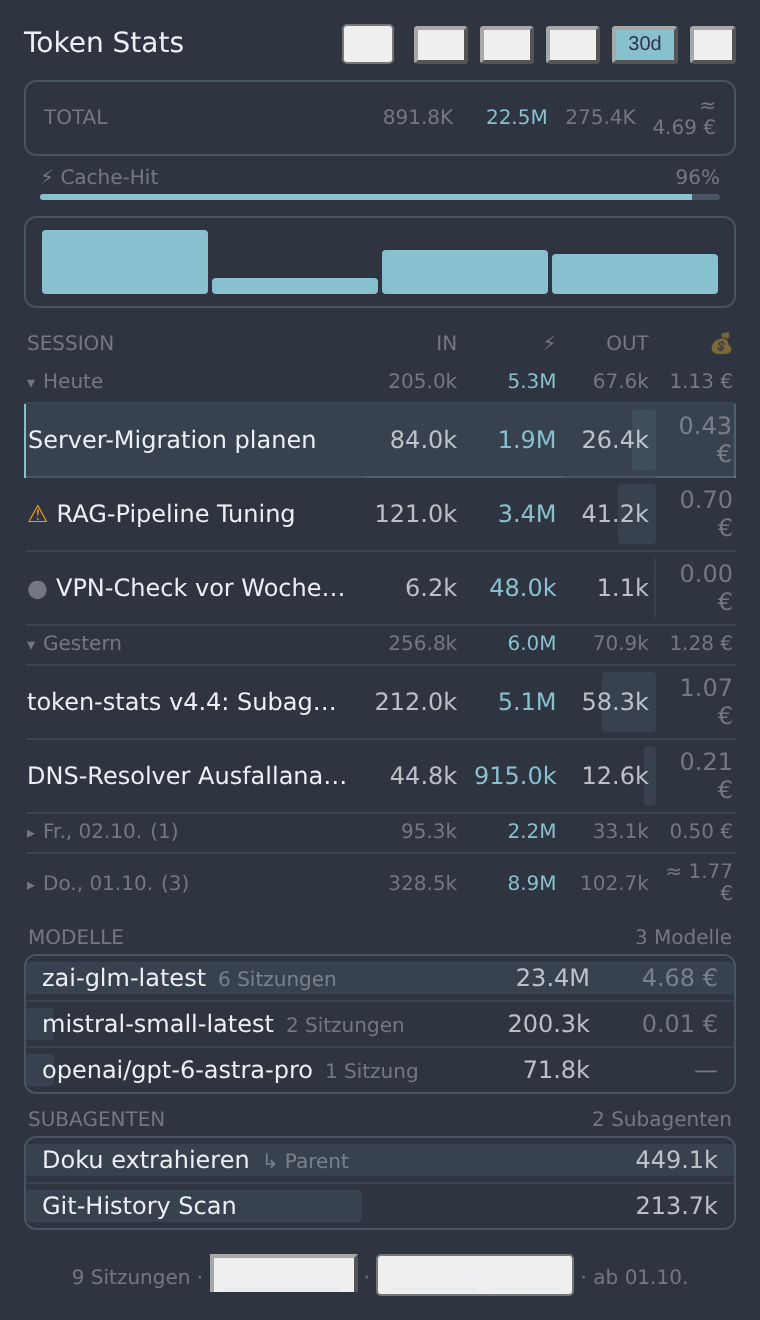
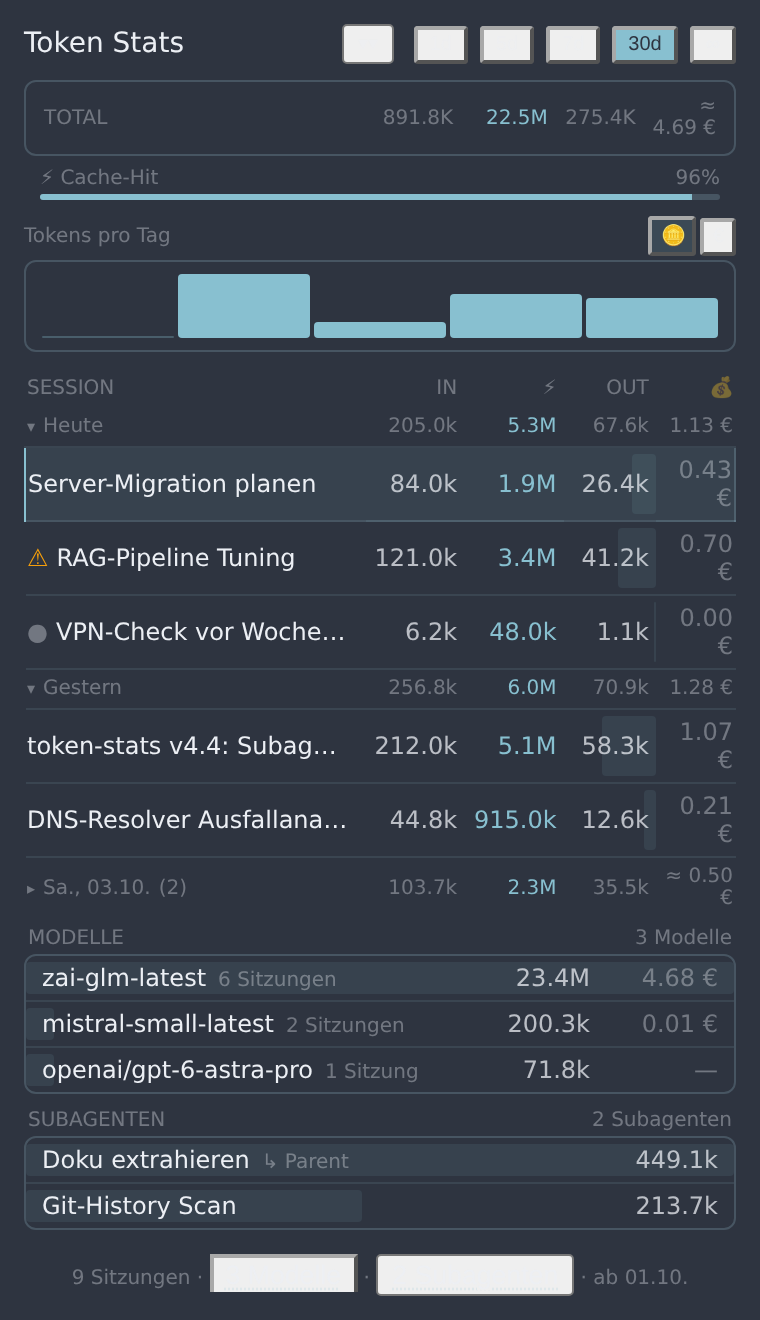
docs: reshoot pane screenshot — histogram metric toggle (v4.6.2)
Mockup updated to v4.6.x logic: histogram header row with 'Tokens pro
Tag' label + 🪙/€ toggle (selected state as inline accent tint, as in
the live plugin). Sample data unchanged, still generic titles.

Changed region(s): [[0.0303, 0.1553, 0.9684, 0.6833]]

diff --git a/docs/pane-mockup.html b/docs/pane-mockup.html
@@ -227,12 +227,14 @@ for (const r of rows) {
   else if (r.input + r.output > 0) unpricedRows++
 }
 
-// Histogram (month window → one bucket per day of month so far)
+// Histogram (month window → one bucket per day of month so far).
+// v4.6.x: buckets also carry per-day estimated cost; bar heights follow
+// the selected metric (tokens default). Tooltip shows both.
 const histBuckets = (() => {
   const start = new Date(); start.setDate(1); start.setHours(0, 0, 0, 0)
   const buckets = []
   for (let d = new Date(start); d <= new Date(); d.setDate(d.getDate() + 1)) {
-    buckets.push({ key: dayKeyDate(d), tokens: 0, sessions: 0 })
+    buckets.push({ key: dayKeyDate(d), tokens: 0, cost: 0, sessions: 0 })
   }
   const byKey = {}
   for (const b of buckets) byKey[b.key] = b
@@ -240,11 +242,13 @@ const histBuckets = (() => {
     const k = r.lastActive != null ? dayKeyTs(r.lastActive) : todayKey
     const b = byKey[k] || byKey[todayKey]
     b.tokens += r.input + r.cache_read + r.output
+    if (r.cost != null) b.cost += r.cost
     b.sessions++
   }
   return buckets
 })()
-const histMax = histBuckets.reduce((m, b) => Math.max(m, b.tokens), 0)
+const histMetric = 'tokens'  // demo shows the default state; 'cost' flips bars
+const histMax = histBuckets.reduce((m, b) => Math.max(m, histMetric === 'cost' ? b.cost : b.tokens), 0)
 
 // Model aggregate (footer list, open)
 const modelAgg = {}
@@ -317,18 +321,35 @@ const cacheBar = el('div', 'shrink-0', 'margin-top:-2px;padding-left:8px;padding
     el('div', null, `height:100%;background:var(--ui-accent);width:${Math.min(100, cacheHitPct)}%;`)),
 ])
 
-// Histogram
-const histCard = el('div', 'shrink-0', null,
+// Histogram (v4.6.x: header row with metric toggle 🪙/€, bars per metric)
+const histHeader = el('div', 'flex items-center justify-between text-[0.625rem] text-quaternary mb-0.5', null, [
+  el('span', null, 'cursor:help', txt(histMetric === 'cost' ? '€ pro Tag' : 'Tokens pro Tag')),
+  el('div', 'flex items-center', 'gap:2px', [
+    // selected: subtle accent tint (INLINE styles, as in the plugin v4.6.2)
+    el('button', 'rounded-sm', 'cursor:pointer;font-size:10px;padding:2px 4px;' +
+      (histMetric !== 'cost'
+        ? 'background:color-mix(in srgb, var(--ui-accent) 15%, transparent);color:var(--ui-accent);font-weight:500;'
+        : 'color:var(--ui-text-quaternary);'), txt('🪙')),
+    el('button', 'rounded-sm', 'cursor:pointer;font-size:10px;padding:2px 4px;' +
+      (histMetric === 'cost'
+        ? 'background:color-mix(in srgb, var(--ui-accent) 15%, transparent);color:var(--ui-accent);font-weight:500;'
+        : 'color:var(--ui-text-quaternary);'), txt('€')),
+  ]),
+])
+const histCard = el('div', 'shrink-0', null, [
+  histHeader,
   el('div', 'rounded-md border stroke-secondary-full px-2 py-1.5', null,
     el('div', 'flex items-end gap-[2px] h-8', null,
       histBuckets.map(b => {
-        const h = histMax ? Math.max(4, Math.round(b.tokens / histMax * 100)) : 0
+        const v = histMetric === 'cost' ? b.cost : b.tokens
+        const h = histMax ? Math.max(4, Math.round(v / histMax * 100)) : 0
         const inner = el('div', null,
-          `width:100%;border-radius:2px;background:var(--ui-accent);height:${b.tokens === 0 ? 3 : h}%;` +
-          (b.tokens === 0 ? 'opacity:0.3;' : ''),
+          `width:100%;border-radius:2px;background:var(--ui-accent);height:${v === 0 ? 3 : h}%;` +
+          (v === 0 ? 'opacity:0.3;' : ''),
         )
         return el('div', 'flex-1c flex flex-col justify-end h-full', null, inner)
-      }))))
+      }))),
+])
 
 // Session table
 const thead = el('thead', null, null, el('tr', 'text-quaternary text-[0.625rem] uppercase', null, [
